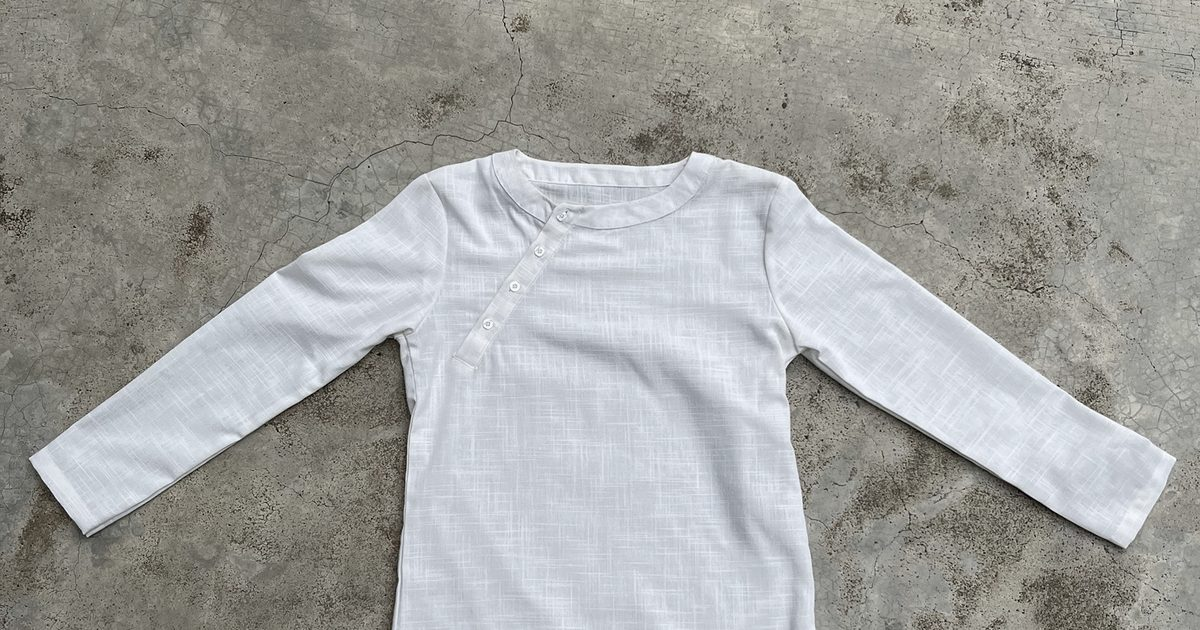
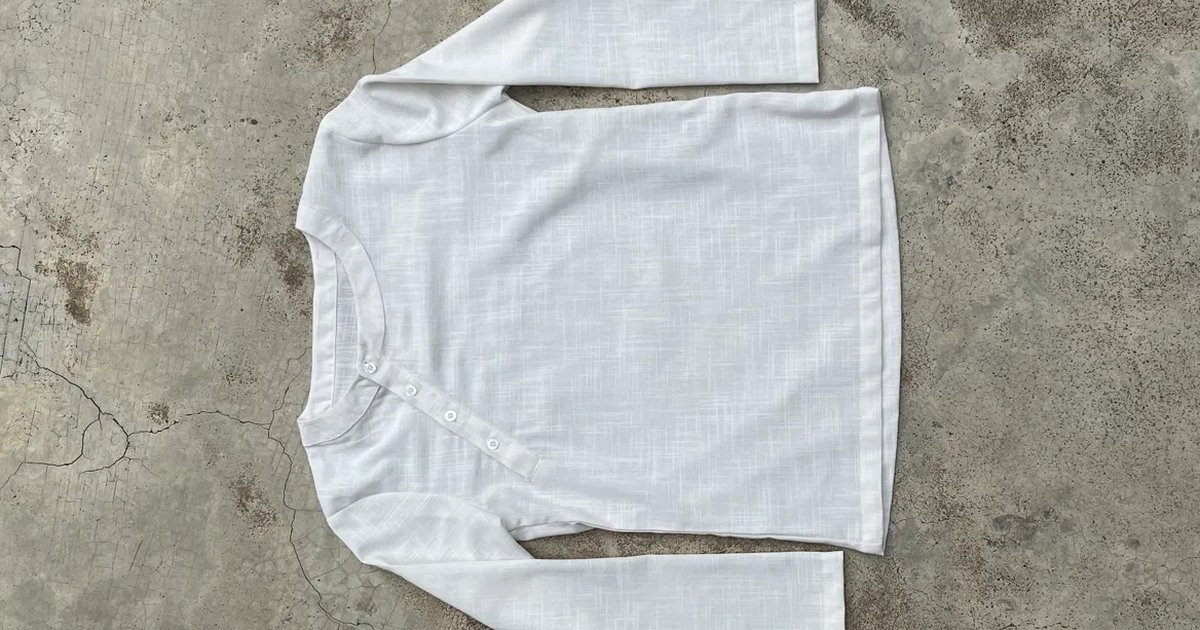
Use Phu's own Henley crops: front flat lay as main, sideways flat lay full-width in gallery and share image
Claude-Session: https://claude.ai/code/session_01KyYkuSe6SyFX4THZ2xRtCq

diff --git a/product.html b/product.html
@@ -145,7 +145,7 @@ a{color:inherit;text-decoration:none}
       </figure>
       <div style="display: grid; grid-template-columns: repeat(2, minmax(0, 1fr)); gap: 4px;">
         <sc-for list="{{ p.shots }}" as="s" hint-placeholder-count="2">
-          <figure class="pd-shot" style="margin: 0; position: relative; overflow: hidden; aspect-ratio: 3 / 4; background: {{ c.stone }};">
+          <figure class="pd-shot" style="margin: 0; position: relative; overflow: hidden; aspect-ratio: {{ s.ar }}; grid-column: {{ s.col }}; background: {{ c.stone }};">
             <sc-if value="{{ s.src }}" hint-placeholder-val="{{ true }}">
               <img src="{{ s.src }}" alt="{{ s.alt }}" style="width: 100%; height: 100%; object-fit: cover; display: block;">
             </sc-if>
@@ -251,7 +251,7 @@ class Component extends DCLogic {
     try { this.state.th = localStorage.getItem('pe-lang') === 'th'; const tm = localStorage.getItem('pe-theme'); if (tm === 'night' || tm === 'linen') this.state.theme = tm; } catch (e) {}
     this.products = [
       {
-        no: '01', name: 'Linen Gauze Henley', ratio: '3 / 4', weave: 'gauze', isNew: true,
+        no: '01', name: 'Linen Gauze Henley', ratio: '952 / 865', weave: 'gauze', isNew: true,
         main: 'assets/henley.jpg', mainAlt: 'Linen Henley laid flat on raw concrete', mainTag: '',
         desc: 'A long-sleeve henley in open linen gauze. Cropped and cut close, with the placket set on a tilt. Made to be worn every day in Bangkok heat.',
         descTh: 'เฮนลีย์แขนยาวผ้าลินินกอซ ทรงครอปตัดเข้าตัว กระดุมคอเอียง ทำมาให้ใส่ได้ทุกวันในอากาศร้อนของกรุงเทพ',
@@ -259,6 +259,7 @@ class Component extends DCLogic {
         fitTh: 'ทรงครอป ตัดเข้าตัว ไม่ใช่ทรงหลวม',
         fabricLine: '100% linen gauze / cropped / tilted placket',
         shots: [
+          { src: 'assets/henley-roll.jpg', alt: 'Linen Henley laid sideways on concrete', label: 'Flat lay', tag: '', light: true, wide: true },
           { src: 'assets/henley-placket.jpg', alt: 'Tilted placket with four shell buttons', label: 'Detail — tilted placket', tag: '', light: true },
           { src: 'assets/henley-placket-open.jpg', alt: 'Placket opened, showing buttonholes and collar band', label: 'Detail — open placket', tag: '', light: true },
           { src: 'assets/linen-light.jpg', alt: 'Drop 01 linen slub held up to window light', label: 'Fabric — held to the light', tag: '', light: true },
@@ -423,7 +424,7 @@ class Component extends DCLogic {
 
       c,
       L,
-      p: { ...p, desc: th ? p.descTh : p.desc, fit: th ? p.fitTh : p.fit, shots: p.shots.map((s) => ({ ...s, empty: !s.src, capColor: s.src ? '#f1ebe2' : c.muted })) },
+      p: { ...p, desc: th ? p.descTh : p.desc, fit: th ? p.fitTh : p.fit, shots: p.shots.map((s) => ({ ...s, ar: s.wide ? '1168 / 820' : '3 / 4', col: s.wide ? '1 / -1' : 'auto', empty: !s.src, capColor: s.src ? '#f1ebe2' : c.muted })) },
       o,
       logo: dark ? 'assets/wordmark-white.png' : 'assets/wordmark-ink.png',
       themeLabel: dark ? 'Linen' : 'Leather',
